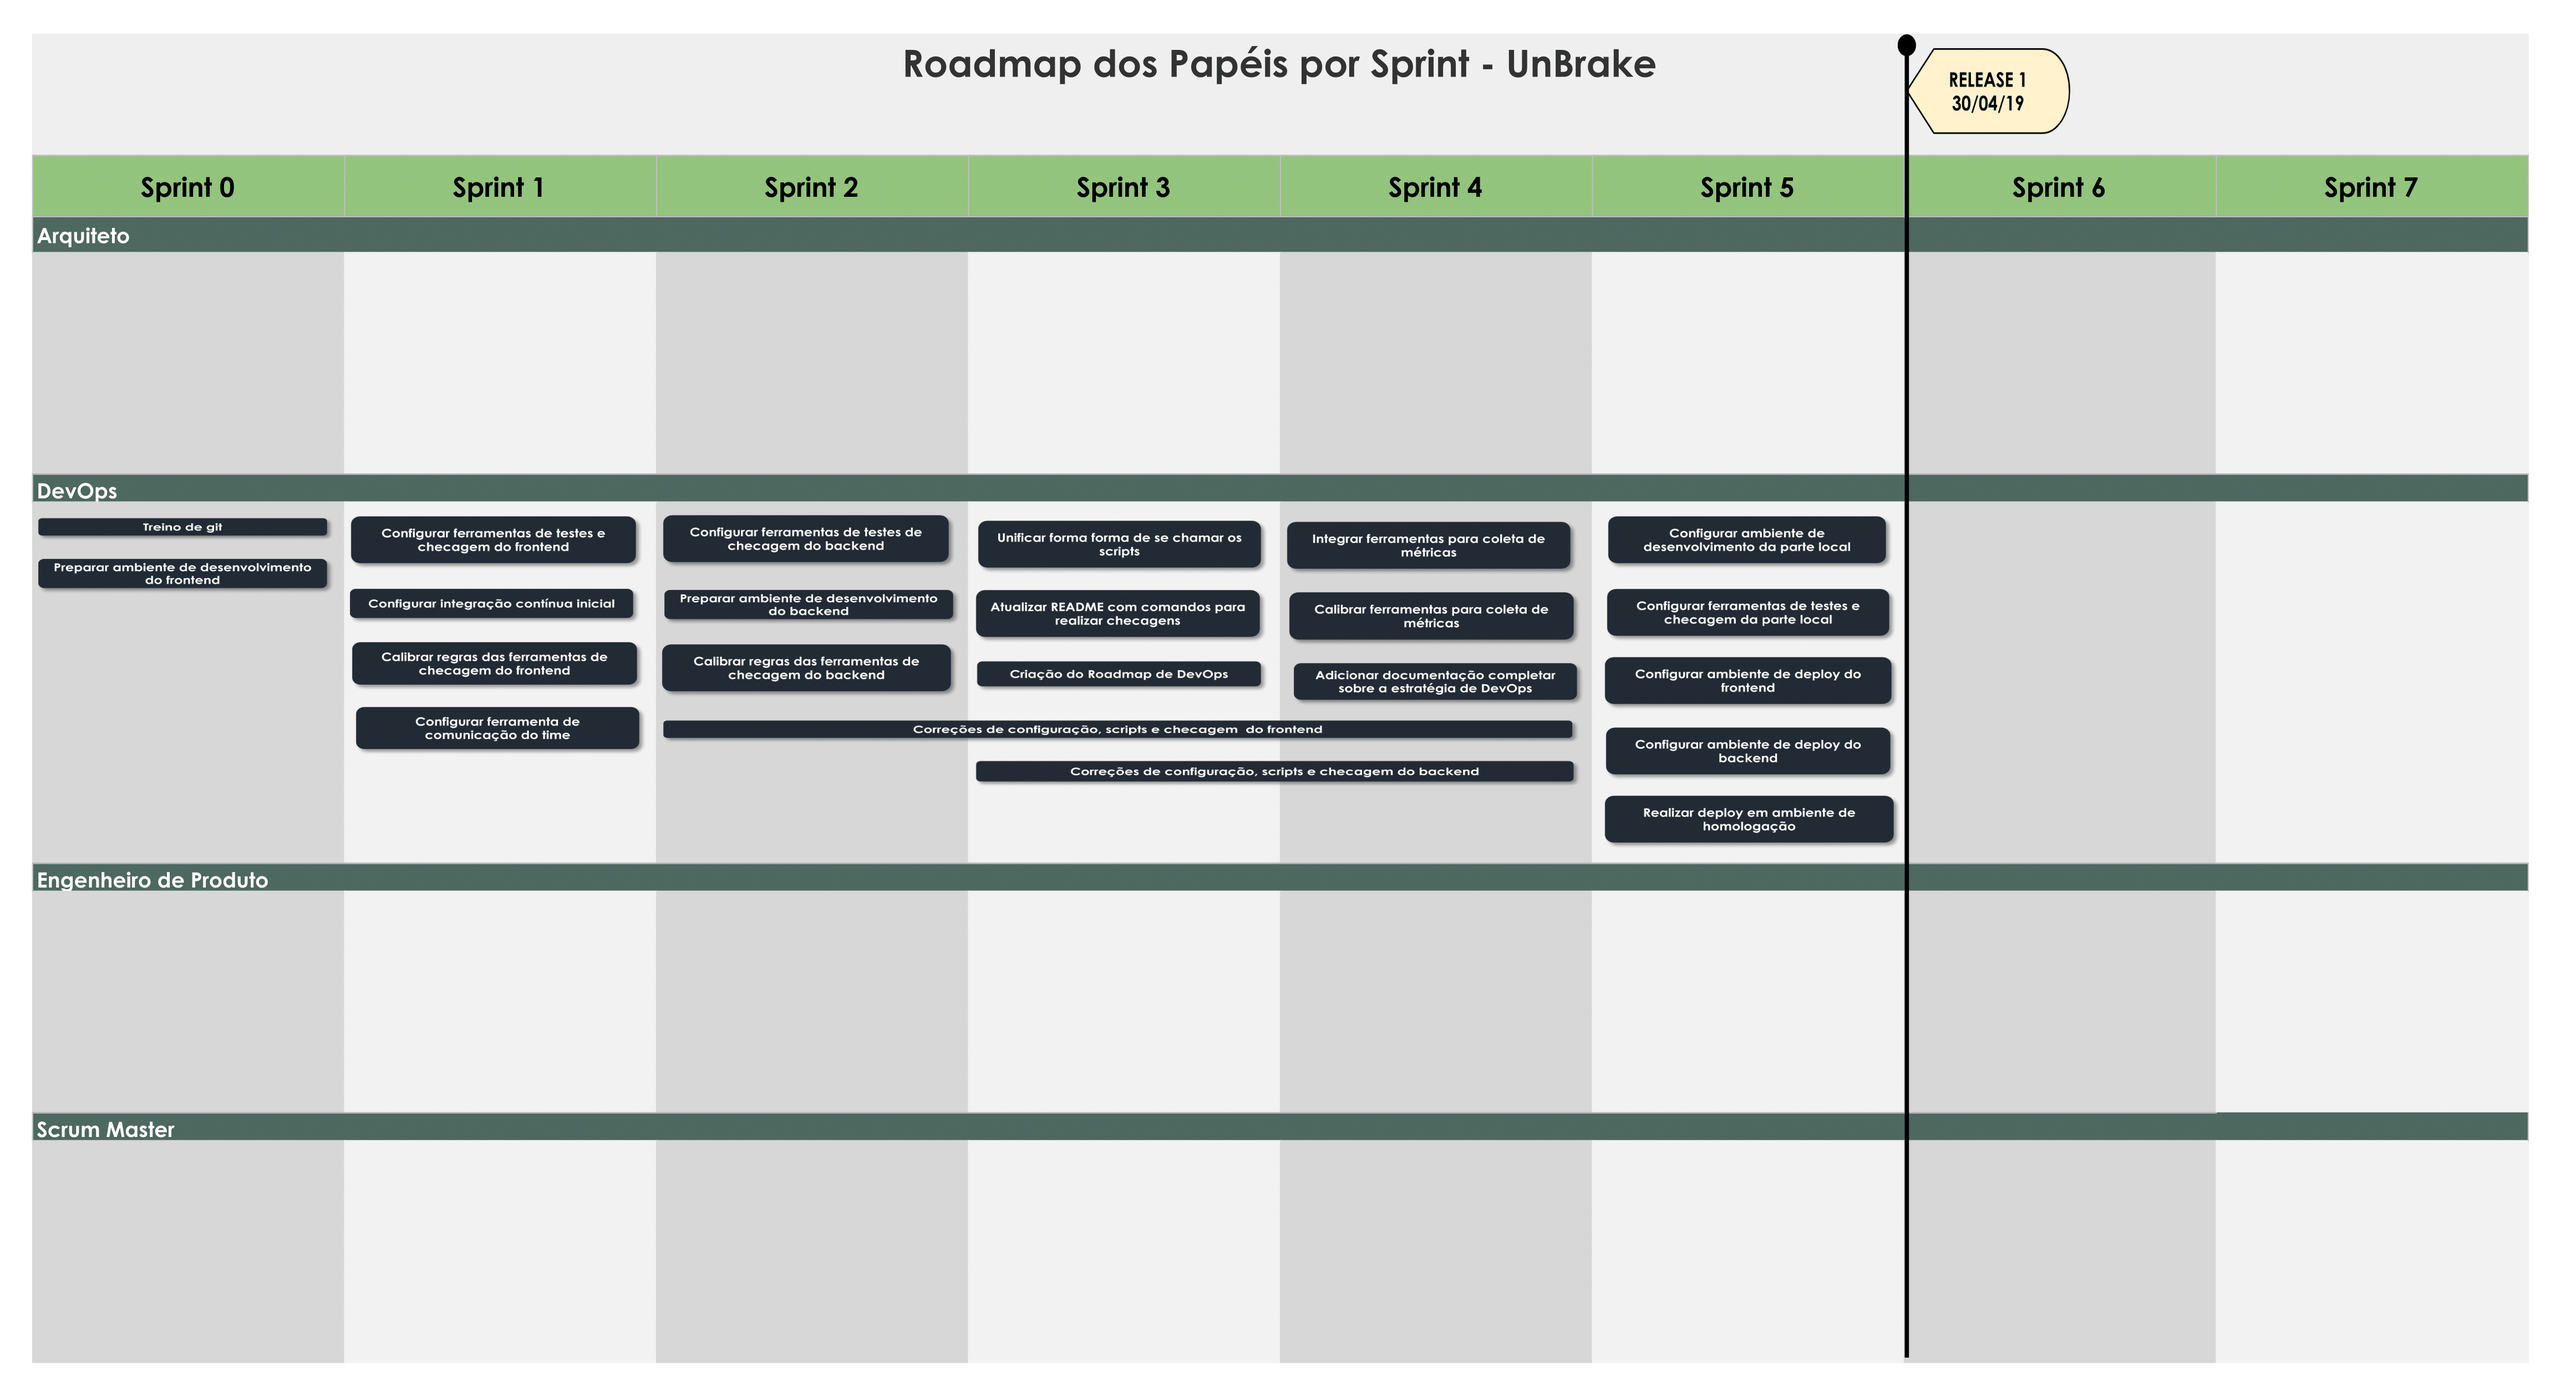
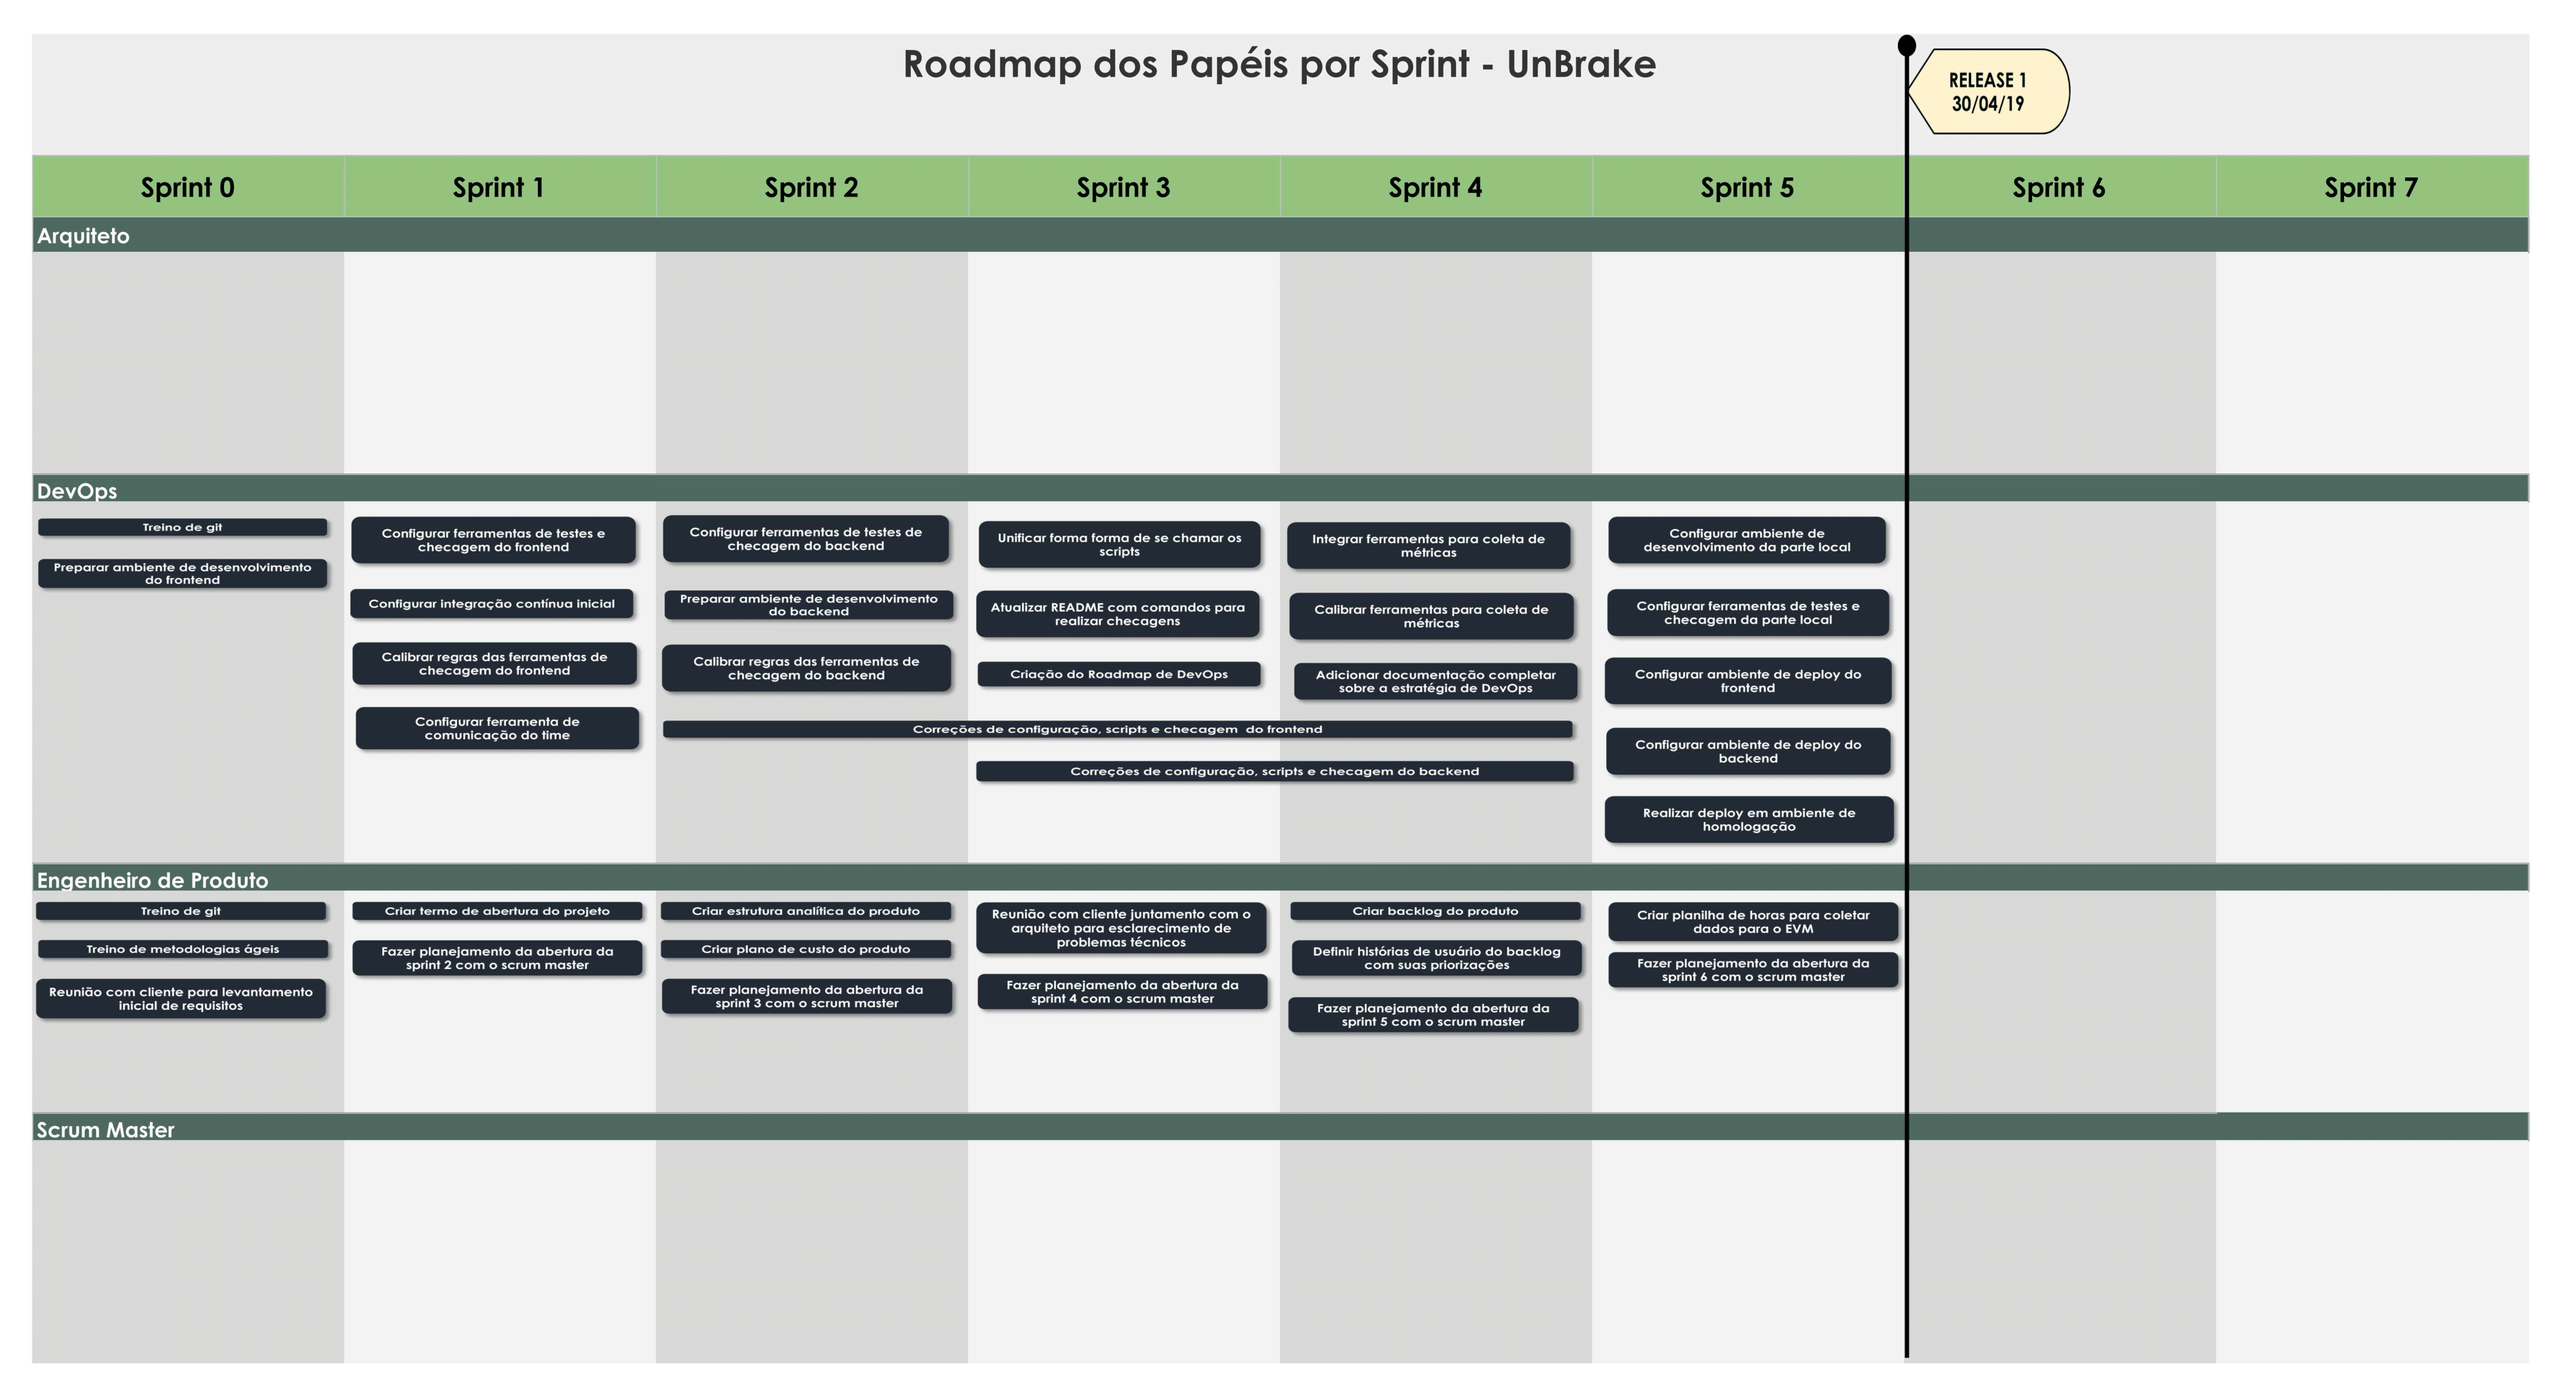
Add roadmap of the product engineer

diff --git a/unbrake/docs/plano-de-custo.md b/unbrake/docs/plano-de-custo.md
@@ -9,6 +9,11 @@
 </script>
 <script src="https://cdn.mathjax.org/mathjax/latest/MathJax.js?config=TeX-AMS-MML_HTMLorMML" type="text/javascript"></script>
 
+## Histórico de Revisão
+
+| Data | Responsável | Versão | Mudança realizada |
+|:----:| ----------- |:------:| ----------------- |
+| **06/04/19** | [@ViniciusBernardo](https://github.com/ViniciusBernardo) | 1 | Avaliação inicial do custo do produto |
 
 ## 1. Introdução
 
@@ -90,6 +95,7 @@ O sistema ficará hospedado em um servidor Kubernetes em nuvem da DigitalOcean d
 
 A porcentagem de lucro e risco serão aplicados sobre a somatória do custo de pessoal $cp$, custo de equipamento $ce$ e custo da infraestrutura $ci$ calculados nos tópicos anteriores.
 A taxa de lucro aplicada sera de 20% ($lucro = 0.2$). Já a taxa de risco será de 45% devido aos seguintes fatores:
+
 * O sistema precisa lidar com dados em real time;
 * É necessário fazer comunicação serial com o sistema embarcado controlador do simulador de frenagem;
 * Como o simulador de frenagem é um sistema mecânico, existe o requisito implícito que o software precisa ter uma alta qualidade e nível de testes.

diff --git a/unbrake/docs/roadmaps/roadmap-papeis.md b/unbrake/docs/roadmaps/roadmap-papeis.md
@@ -5,6 +5,7 @@
 | Data | Responsável | Versão | Mudança realizada |
 |:----:| ----------- |:------:| ----------------- |
 | **20/04/2019** | [@icaropires](https://github.com/icaropires) | 1 | Adiciona template do diagrama e tarefas de DevOps até a R1 |
+| **29/04/2019** | [@ViniciusBernardo](https://github.com/ViniciusBernardo) | 2 | Adiciona roadmap do engenheiro de produto até a R1 |
 
 ## Diagrama
 
